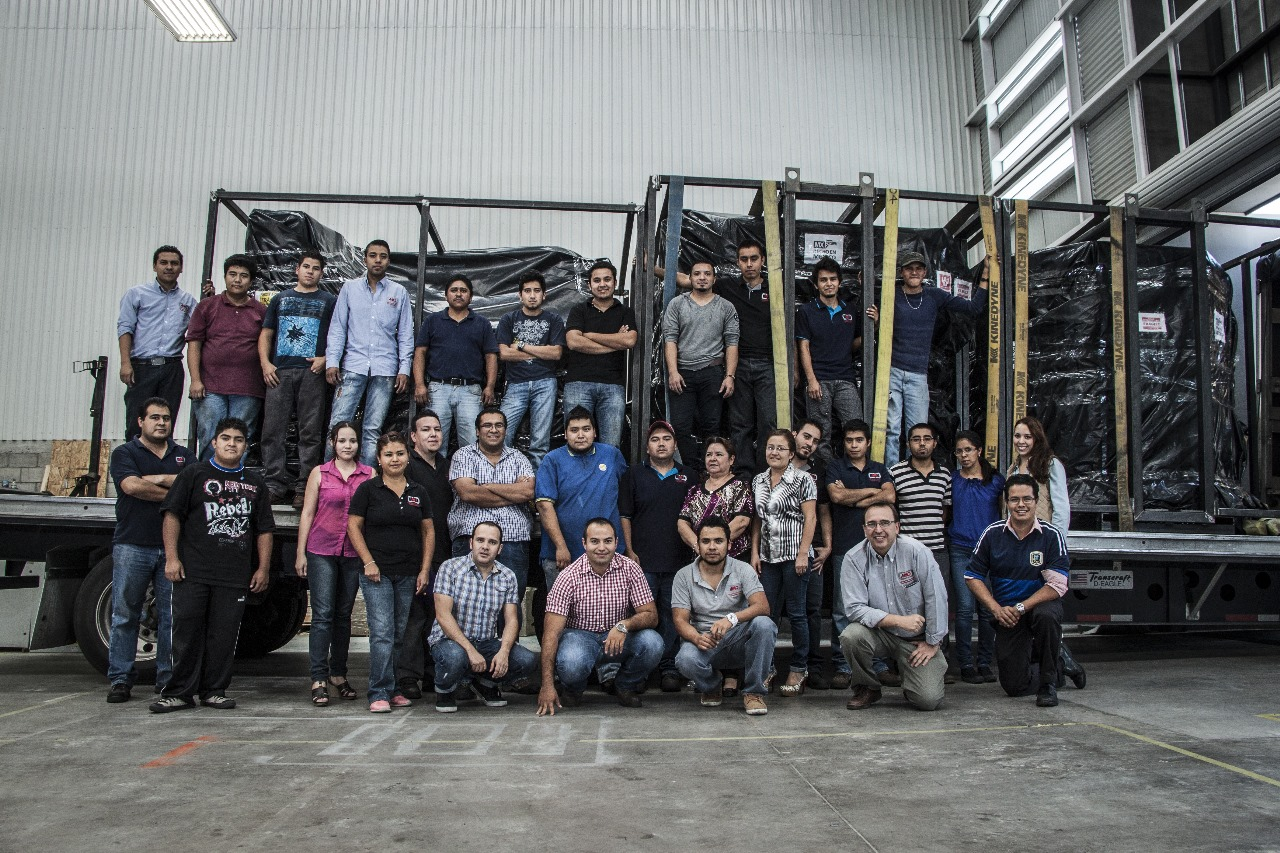
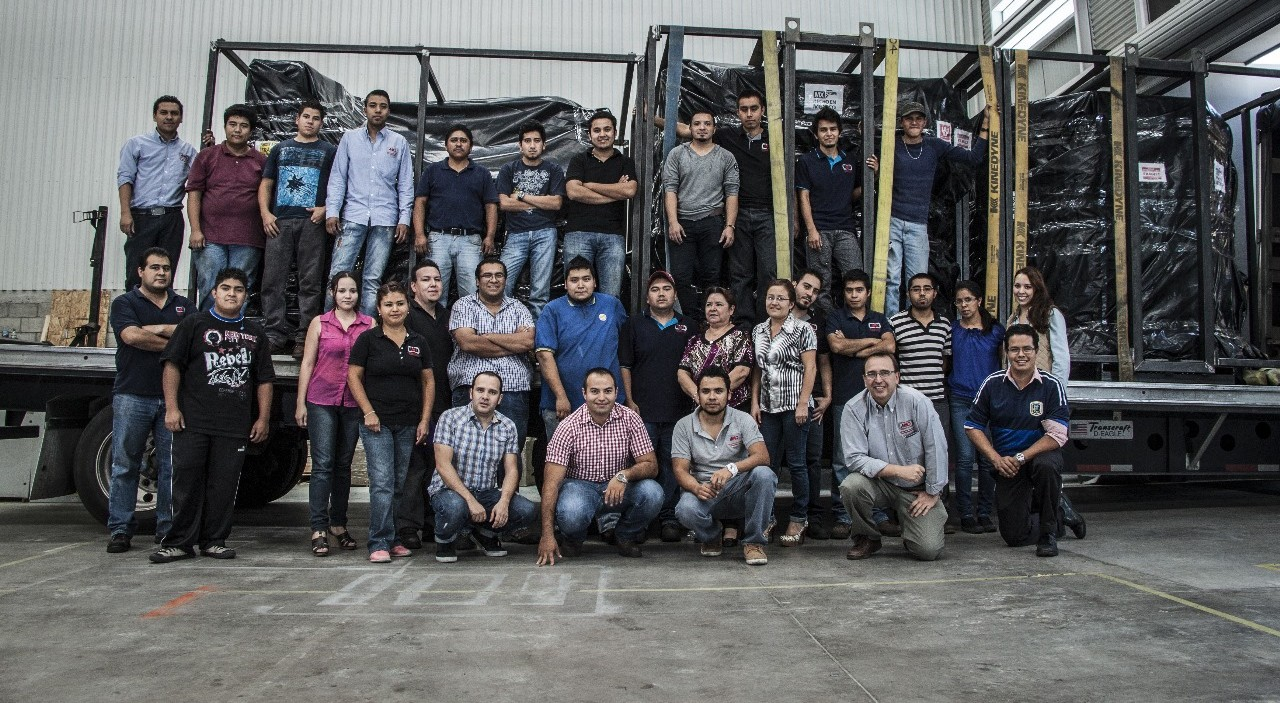
Improve STORY image crops and update About page content
- Cropped 2015, 2018, 2023 images to focus on people
- 2018: Changed caption from "our own" to "our new" facility
- 2023: Kept AMD logo visible in crop
- Added new section explaining rebranding from AMD to AMD Machines
- Updated caption to reflect full-service automation partner positioning

diff --git a/output/about/index.html b/output/about/index.html
@@ -585,8 +585,8 @@
 <h2 id="engineering-driven">Engineering-Driven</h2>
 <p>At AMD, engineering isn't just a department—it's our culture. Every project begins with thorough analysis and creative problem-solving. Our team includes specialists in mechanical design, electrical controls, robotics, vision systems, and manufacturing processes.</p>
 <figure class="about-content-image">
-<img src="/static/images/STORY/2018.jpeg" alt="AMD Machines team in front of our dedicated facility" width="800" height="400" loading="lazy">
-<figcaption>Moving into our own facility: the team that built AMD into an industry leader</figcaption>
+<img src="/static/images/STORY/2018.jpeg" alt="AMD Machines team in front of our new dedicated facility" width="800" height="400" loading="lazy">
+<figcaption>Moving into our new facility: the team that built AMD into an industry leader</figcaption>
 </figure>
 
 <h2 id="our-facilities">Our Facilities</h2>
@@ -598,9 +598,11 @@
 <li><strong>Quality Execution</strong> - Careful fabrication, thorough testing, proper documentation</li>
 <li><strong>Ongoing Support</strong> - Training, service, and support for the life of your equipment</li>
 </ul>
+<h2 id="amd-machines-today">AMD Machines Today</h2>
+<p>As we've grown, so has our commitment to serving our customers beyond just building machines. We evolved from AMD—focused purely on machine building—to AMD Machines, reflecting our expanded role as a full-service automation partner. Today we don't just deliver equipment; we provide ongoing support, training, spare parts, and service throughout the lifecycle of every system we build.</p>
 <figure class="about-content-image">
-<img src="/static/images/STORY/2023.jpeg" alt="AMD Machines team and expanded facilities today" width="800" height="400" loading="lazy">
-<figcaption>AMD Machines today: 70,000 sq ft across three facilities in Central Mexico</figcaption>
+<img src="/static/images/STORY/2023.jpeg" alt="AMD Machines team and expanded facilities with new branding" width="800" height="400" loading="lazy">
+<figcaption>AMD Machines today: a full-service automation partner with 70,000 sq ft across three facilities</figcaption>
 </figure>
         </div>
     </div>

diff --git a/content/about.md b/content/about.md
@@ -44,8 +44,8 @@ AMD Machines was founded over 30 years ago with a clear mission: build custom au
 At AMD, engineering isn't just a department—it's our culture. Every project begins with thorough analysis and creative problem-solving. Our team includes specialists in mechanical design, electrical controls, robotics, vision systems, and manufacturing processes.
 
 <figure class="about-content-image">
-<img src="/static/images/STORY/2018.jpeg" alt="AMD Machines team in front of our dedicated facility" width="800" height="400" loading="lazy">
-<figcaption>Moving into our own facility: the team that built AMD into an industry leader</figcaption>
+<img src="/static/images/STORY/2018.jpeg" alt="AMD Machines team in front of our new dedicated facility" width="800" height="400" loading="lazy">
+<figcaption>Moving into our new facility: the team that built AMD into an industry leader</figcaption>
 </figure>
 
 ## Our Facilities
@@ -59,7 +59,11 @@ Our 70,000 sq ft across three facilities in Central Mexico houses everything nee
 - **Quality Execution** - Careful fabrication, thorough testing, proper documentation
 - **Ongoing Support** - Training, service, and support for the life of your equipment
 
+## AMD Machines Today
+
+As we've grown, so has our commitment to serving our customers beyond just building machines. We evolved from AMD—focused purely on machine building—to AMD Machines, reflecting our expanded role as a full-service automation partner. Today we don't just deliver equipment; we provide ongoing support, training, spare parts, and service throughout the lifecycle of every system we build.
+
 <figure class="about-content-image">
-<img src="/static/images/STORY/2023.jpeg" alt="AMD Machines team and expanded facilities today" width="800" height="400" loading="lazy">
-<figcaption>AMD Machines today: 70,000 sq ft across three facilities in Central Mexico</figcaption>
+<img src="/static/images/STORY/2023.jpeg" alt="AMD Machines team and expanded facilities with new branding" width="800" height="400" loading="lazy">
+<figcaption>AMD Machines today: a full-service automation partner with 70,000 sq ft across three facilities</figcaption>
 </figure>
